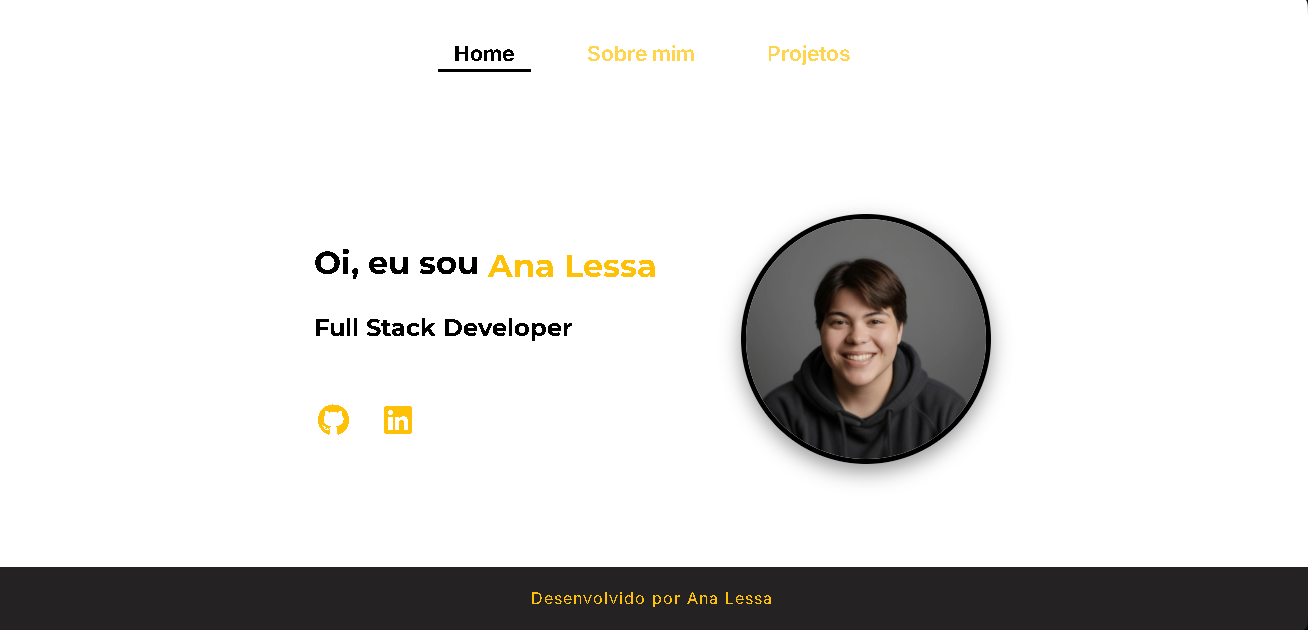
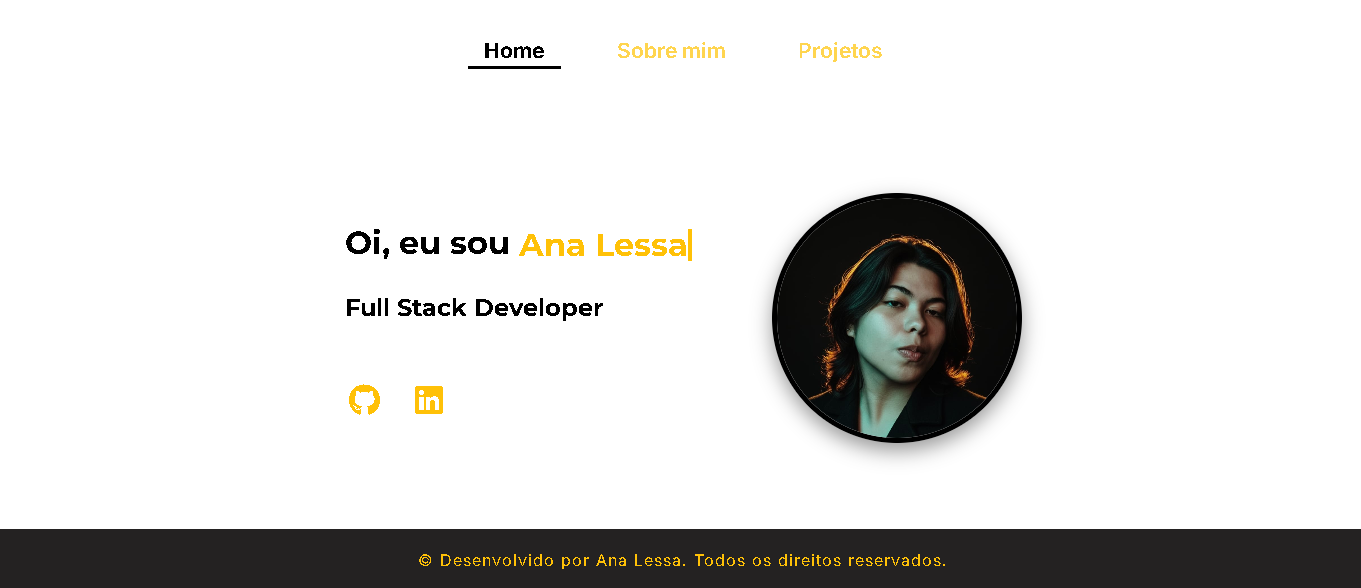
adiciona o projeto ivi-arts ao portfólio

diff --git a/projects.html b/projects.html
@@ -49,32 +49,32 @@
                     </div>
                 </div>
             </article>
-            <article class="project-card"> <img src="/assets/project-catalogo-ivi-afro-braids.png" alt="Miniatura do Catálogo Ivi Afro Braids" class="project-thumbnail"> <div class="project-info">
-                <h3>Catálogo - Ivi Afro Braids</h3>
-                <p>Este projeto é uma landing page completa e responsiva criada para exibir os serviços e a cultura por trás da arte do trancismo. O site foi desenvolvido para ser uma vitrine digital, permitindo que clientes conheçam os valores, vejam os modelos de trabalho e agendem seus horários de forma fácil e direta.</p>
-                <div class="project-links"> <a href="https://catalogo-ivi-afro-braids.vercel.app" target="_blank" class="project-link-btn">
+            <article class="project-card"> <img src="/assets/project-limpoo.png" alt="Miniatura da Landing Page Limpoo" class="project-thumbnail"> <div class="project-info">
+                <h3>Limpoo</h3>
+                <p>O Limpoo foi desenvolvido para demonstrar de forma clara e atrativa os serviços de limpeza de ambientes, estofados e veículos. O foco está na usabilidade, design responsivo e apresentação dos benefícios da limpeza profunda.</p>
+                <div class="project-links"> <a href="https://limpoo.vercel.app/index.html" target="_blank" class="project-link-btn">
                         <i class="fas fa-external-link-alt"></i>Visualizar Projeto
                     </a>
-                    <a href="https://github.com/analessp/catalogo-ivi-afro-braids" target="_blank" class="project-link-btn">
+                    <a href="https://github.com/analessp/limpoo" target="_blank" class="project-link-btn">
                         <i class="fab fa-github"></i> Código no Github
                     </a>
             </div>
             </div>
         </article>
-        <article class="project-card"> <img src="/assets/project-limpoo.png" alt="Miniatura da Landing Page Limpoo" class="project-thumbnail"> <div class="project-info">
-            <h3>Limpoo</h3>
-            <p>O Limpoo foi desenvolvido para demonstrar de forma clara e atrativa os serviços de limpeza de ambientes, estofados e veículos. O foco está na usabilidade, design responsivo e apresentação dos benefícios da limpeza profunda.</p>
-            <div class="project-links"> <a href="https://limpoo.vercel.app/index.html" target="_blank" class="project-link-btn">
-                    <i class="fas fa-external-link-alt"></i>Visualizar Projeto
-                </a>
-                <a href="https://github.com/analessp/limpoo" target="_blank" class="project-link-btn">
-                    <i class="fab fa-github"></i> Código no Github
-                </a>
-        </div>
-        </div>
-    </article>
+            <article class="project-card"> <img src="/assets/project-ivi-arts.png" alt="Miniatura do Catálogo Ivi Afro Braids" class="project-thumbnail"> <div class="project-info">
+                <h3>Ivi Arts</h3>
+                <p>Ivi Arts é um site de artesanato personalizado que transforma ideias em obras de arte feitas à mão — cada peça conta uma história única.</p>
+                <div class="project-links"> <a href="https://ivi-arts.vercel.app/" target="_blank" class="project-link-btn">
+                        <i class="fas fa-external-link-alt"></i>Visualizar Projeto
+                    </a>
+                    <a href="https://github.com/analessp/ivi-arts" target="_blank" class="project-link-btn">
+                        <i class="fab fa-github"></i> Código no Github
+                    </a>
+            </div>
+            </div>
+        </article>
         </section>
     </main>
-    <footer>Desenvolvido por Ana Lessa</footer>
+    <footer>© Desenvolvido por Ana Lessa. Todos os direitos reservados.</footer>
 </body>
 </html>

diff --git a/index.html b/index.html
@@ -43,6 +43,6 @@
         </div>
         <img src="assets/profile.jpg" alt="Logo Ana Lessa desenvolvedora" class="logo">
         </main>
-    <footer>Desenvolvido por Ana Lessa</footer>
+    <footer>© Desenvolvido por Ana Lessa. Todos os direitos reservados.</footer>
 </body>
 </html>

diff --git a/about-me.html b/about-me.html
@@ -64,6 +64,6 @@
             </div>
         </div>
     </main>
-    <footer>Desenvolvido por Ana Lessa</footer>
+    <footer>© Desenvolvido por Ana Lessa. Todos os direitos reservados.</footer>
 </body>
 </html>
